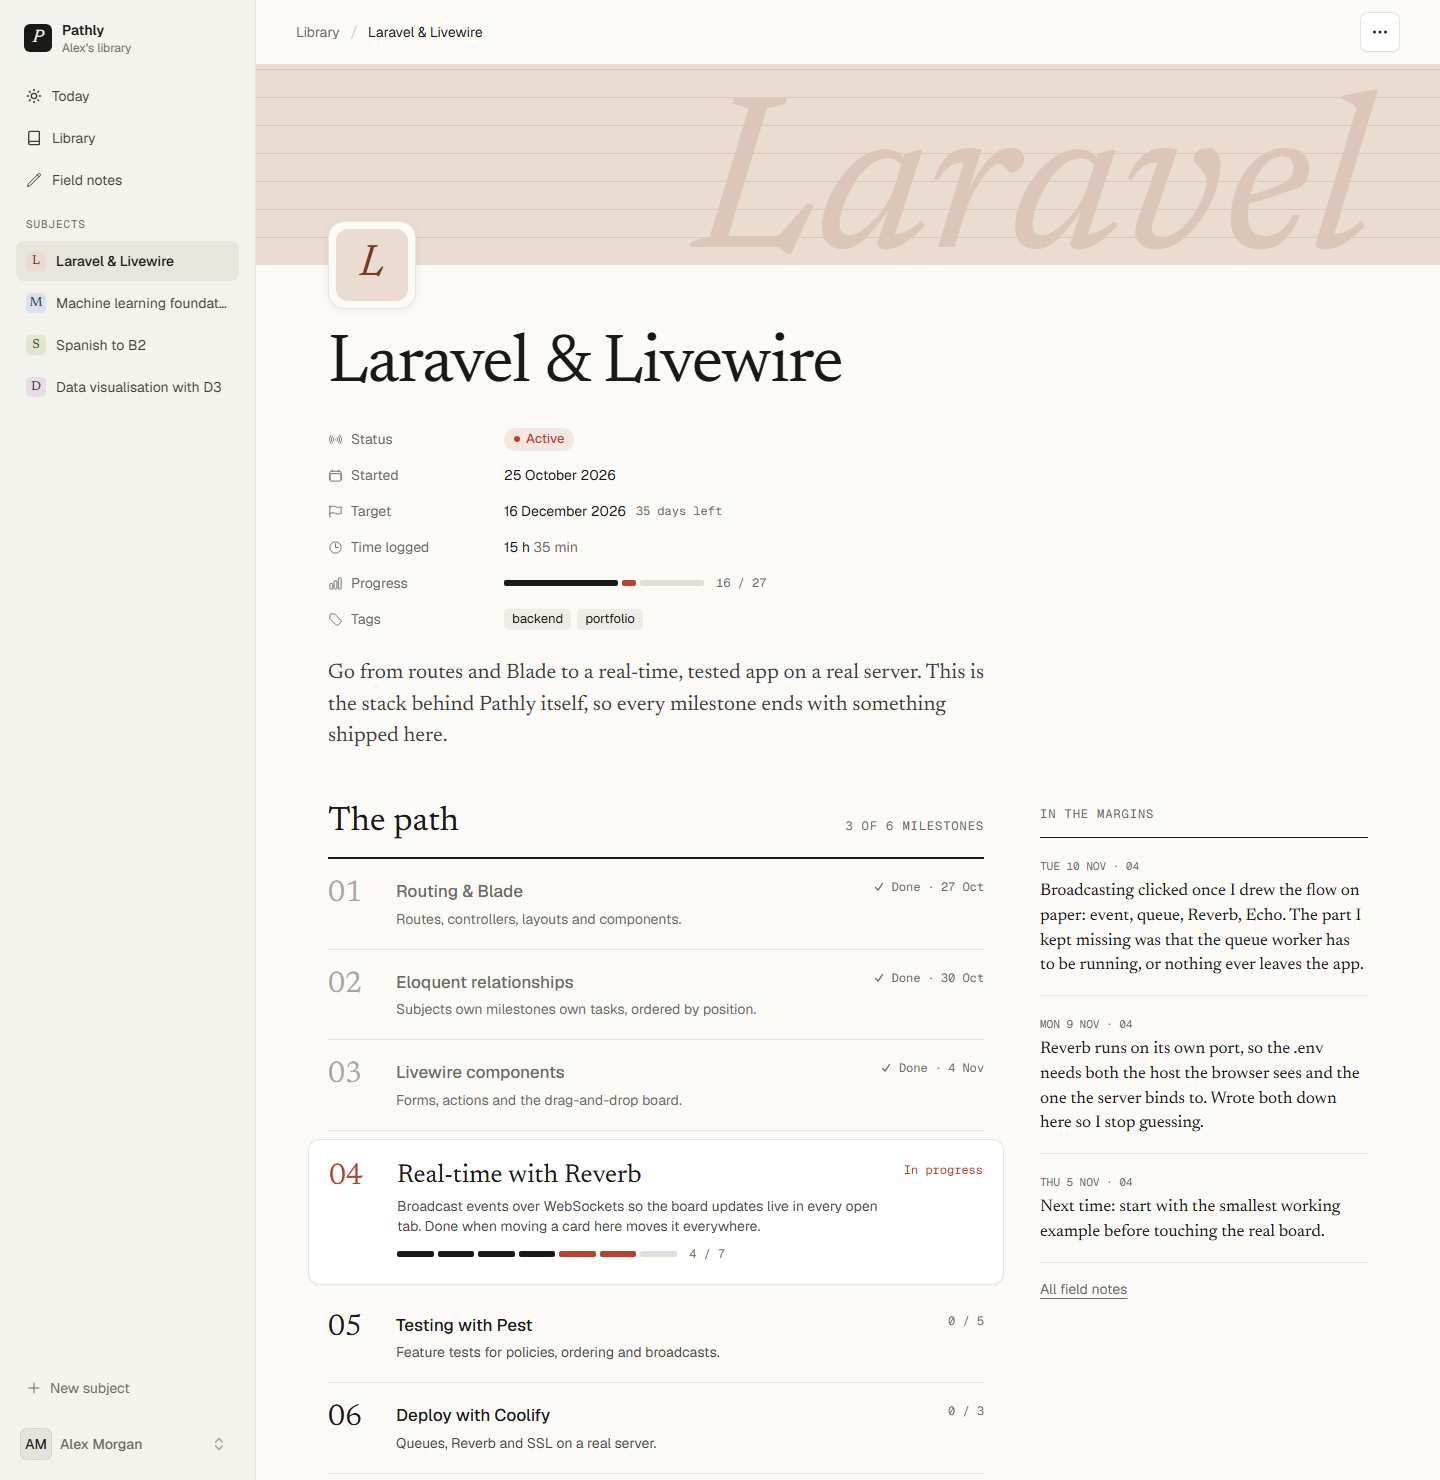
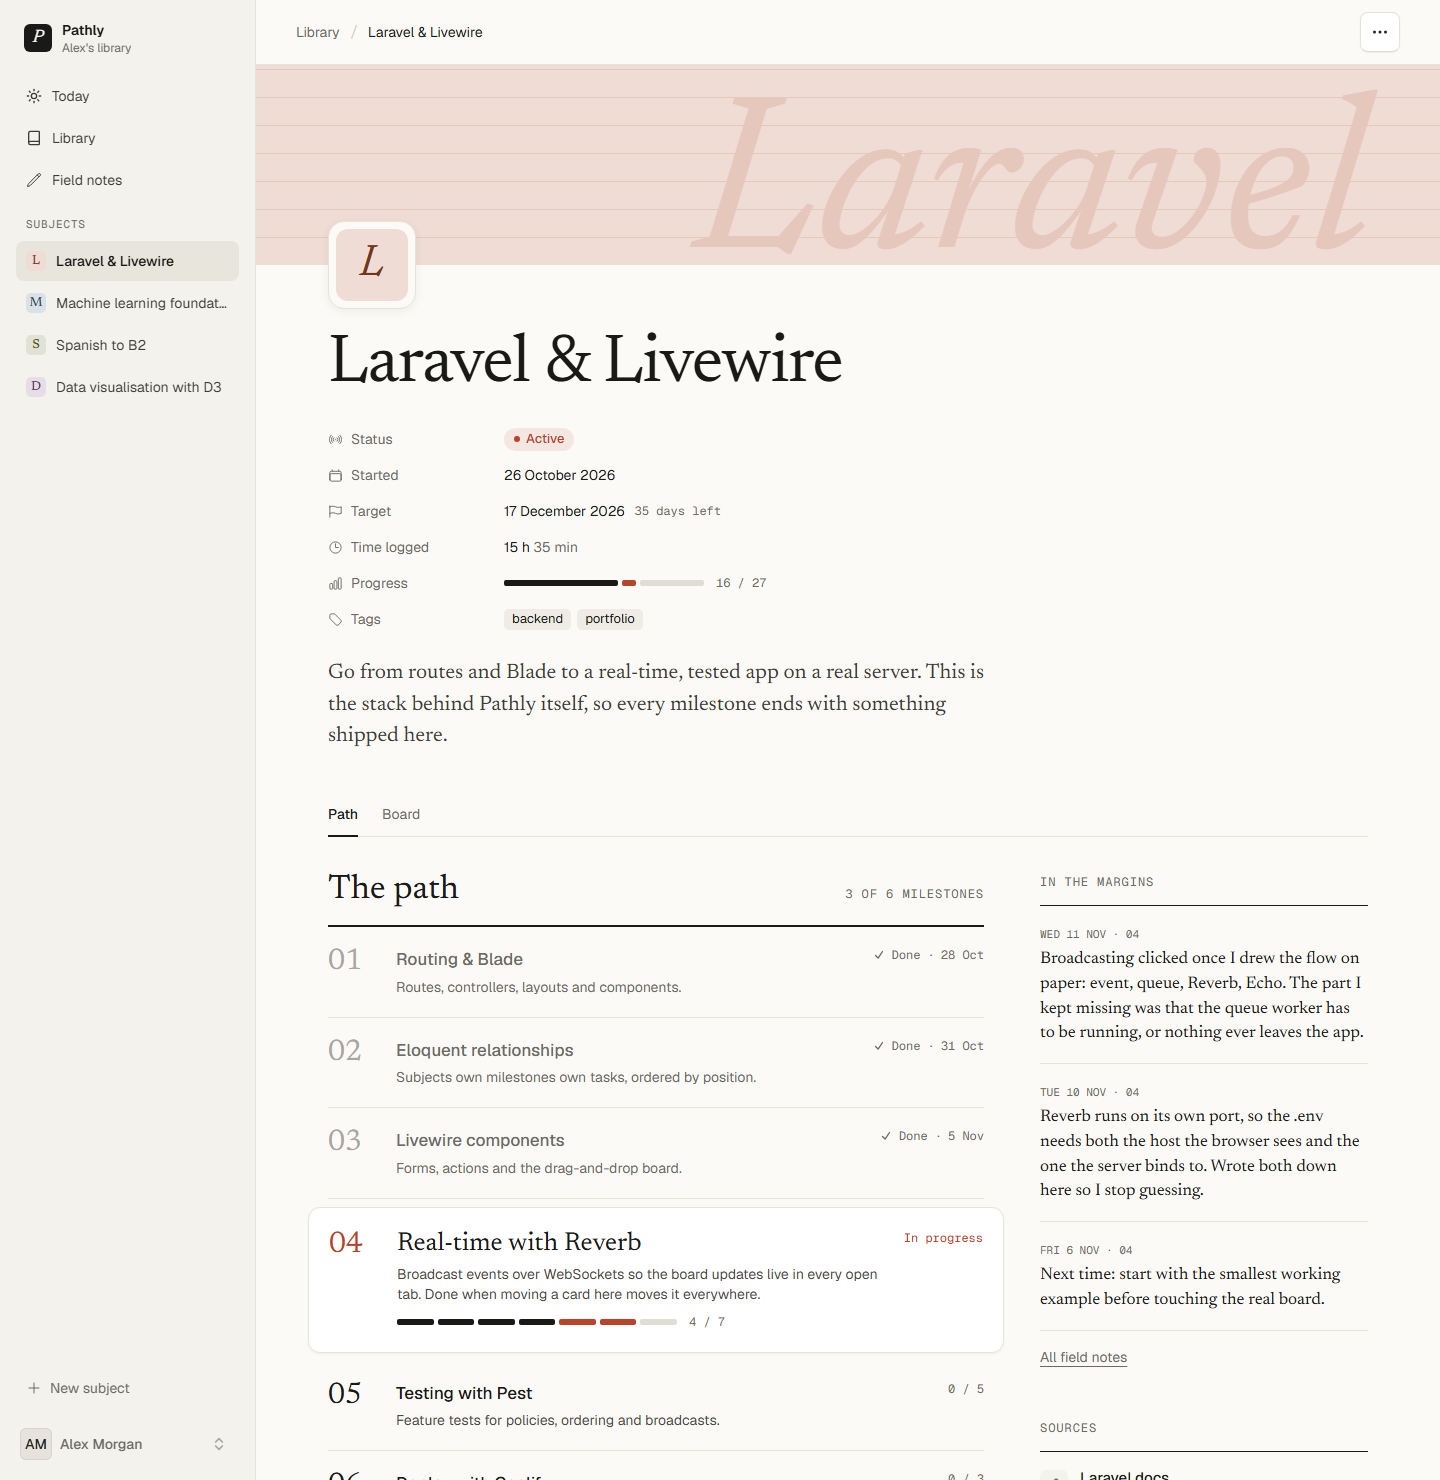
docs(readme): describe the subject board, task panel, sources and colours

diff --git a/README.md b/README.md
@@ -14,6 +14,15 @@ Built with Laravel, Livewire, Postgres, Redis and Reverb.
   (docs, videos, exercises, notebooks) that move from To do to In progress to Done.
 - **A kanban board per milestone.** Drag cards between columns or use the "Move to" menu. A milestone is finished
   when all of its tasks are done, and the path moves on to the next one.
+- **A board for the whole subject.** The subject page's Board tab shows every task of every milestone in the same
+  three columns, grouped by milestone in path order, with finished milestones folded away. Cards move between
+  columns and stay in their milestone.
+- **Task details.** Click a task to open it in a side panel: its link, time logged, a description (what to do,
+  page numbers, where you stopped) and the field notes written about it. Change its status, edit or delete it there.
+- **Sources.** Each subject keeps the docs, courses and books it's learned from, with or without a link. Add them
+  when creating the subject (one per line), on the subject page, or straight from a task's link.
+- **Any colour.** Pick a preset or any colour for a subject; Pathly turns it into a soft background and readable text
+  in that hue, so every subject fits the paper look.
 - **Live updates.** Open the same board in two tabs or on two devices: a change in one appears in the other at
   once, over WebSockets (Laravel Reverb). A dot in the header shows whether the board is Live or Offline.
 - **Study sessions.** Start a timer on a task or log time by hand. Sessions feed the streak, the week chart and the
@@ -29,9 +38,13 @@ Built with Laravel, Livewire, Postgres, Redis and Reverb.
 
 | Library | Subject |
 | --- | --- |
-| ![The library: every subject with its current milestone and progress](docs/screenshots/library.png) | ![A subject: its properties and the path of milestones, with notes in the margin](docs/screenshots/subject.png) |
+| ![The library: every subject with its current milestone and progress](docs/screenshots/library.png) | ![A subject: its properties and the path of milestones, with notes and sources in the margin](docs/screenshots/subject.png) |
 
 ![A milestone's board, live over Reverb, with field notes below](docs/screenshots/milestone.png)
+
+| The subject's board | A task's details |
+| --- | --- |
+| ![Every task of a subject in three columns, grouped by milestone](docs/screenshots/board.png) | ![The task panel: status, description and linked field notes](docs/screenshots/panel.png) |
 
 It works on a phone too:
 
@@ -96,14 +109,20 @@ erDiagram
     SUBJECT ||--o{ STUDY_SESSION : "time on"
     TASK |o--o{ STUDY_SESSION : "time on"
     USER ||--o{ NOTIFICATION : receives
+    SUBJECT ||--o{ SOURCE : "learned from"
 
     SUBJECT {
         string title
         string status "active, paused, archived"
         date target_date
         json tags
-        string colour
+        string colour "#rrggbb"
         timestamp nudged_at
+    }
+    SOURCE {
+        string title
+        string url "null for a book"
+        int position
     }
     MILESTONE {
         int position
@@ -112,6 +131,7 @@ erDiagram
     TASK {
         string title
         string url
+        text description
         string type "docs, video, exercise, notebook"
         string status "todo, in_progress, done"
         int position
@@ -260,11 +280,12 @@ app/
   Enums/          TaskStatus, TaskType, SubjectStatus, SubjectColour
   Events/         BoardChanged (broadcast on private-milestones.{id})
   Jobs/           SendNudges (daily reminder)
-  Livewire/       Today, Subjects\Index|Show, Milestones\Show, Notes\Index, Sessions\LogSession, Forms\*
-  Models/         User, Subject, Milestone, Task, StudySession, Note
+  Livewire/       Today, Subjects\Index|Show|Board|Sources, Milestones\Show, Tasks\Panel, Notes\Index,
+                  Sessions\LogSession, Forms\*
+  Models/         User, Subject, Milestone, Task, StudySession, Note, Source
   Notifications/  FinishWhatYouStart (mail + database)
   Policies/       SubjectPolicy
-  Support/        LocalTime, Streak, WeekChart
+  Support/        LocalTime, Streak, WeekChart, Tint (subject colours), Link
 database/seeders/ DemoSeeder (the demo library)
 routes/           web.php, channels.php, console.php (schedule)
 tests/Feature/    one folder per area
